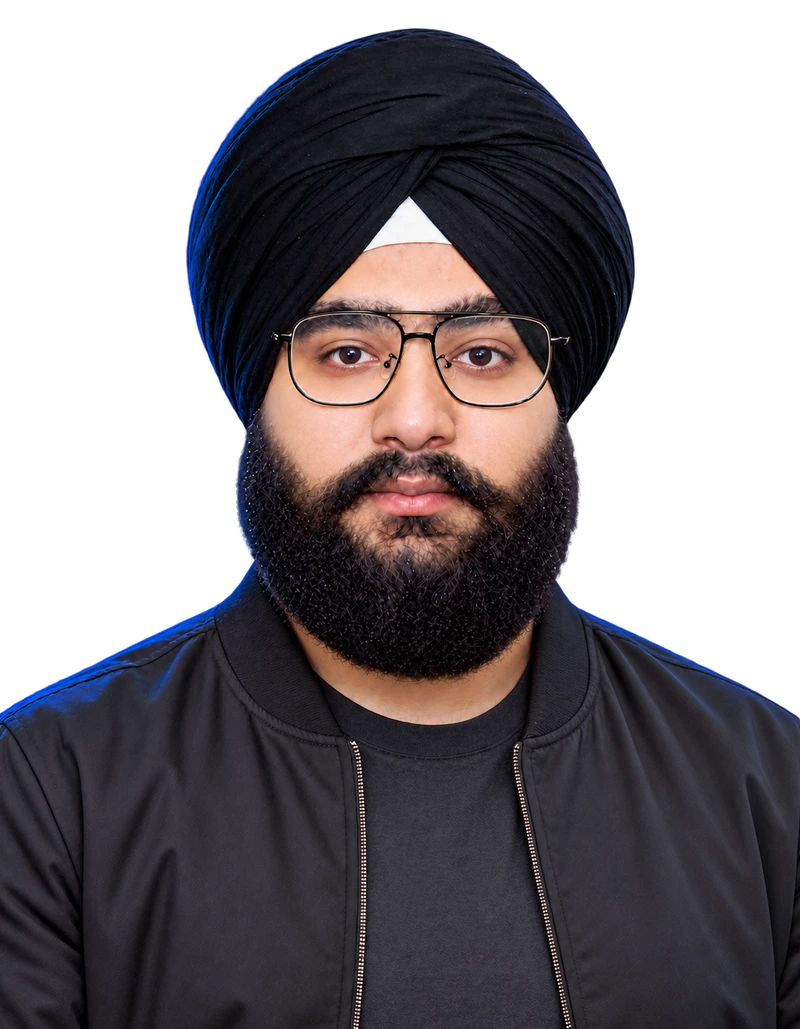
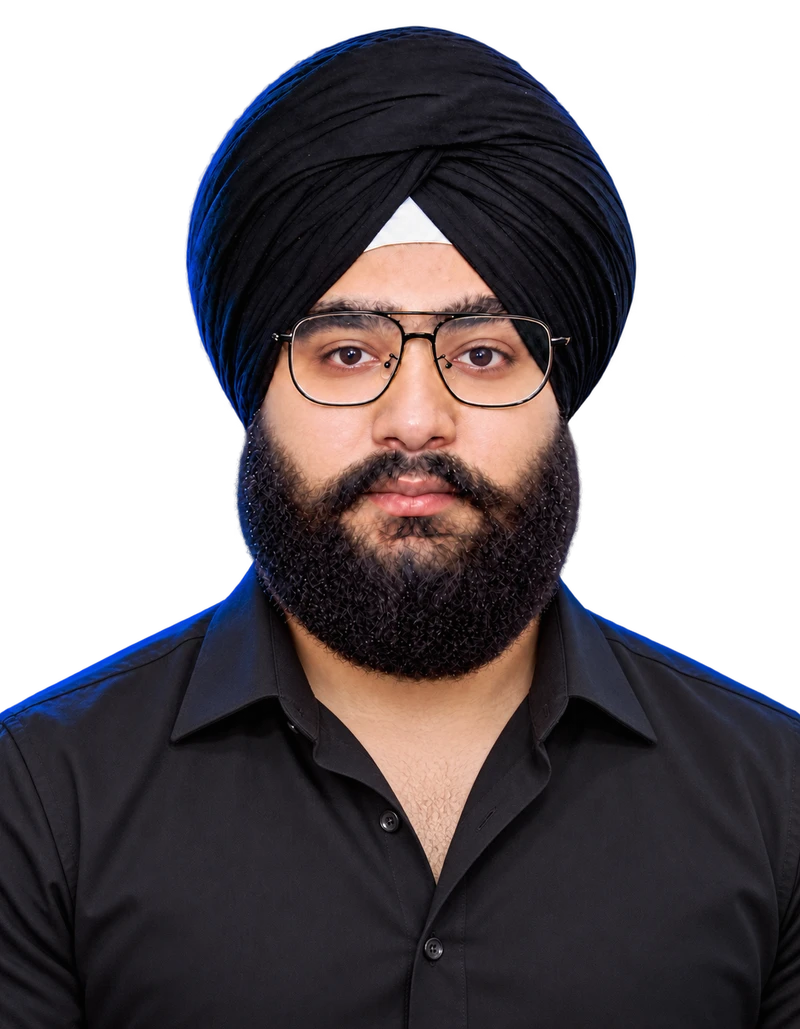
Use open-collar portrait with stronger shoulder framing

diff --git a/readme.md b/readme.md
@@ -43,7 +43,7 @@ No LeetCode or open-source contribution claims are displayed. Add them only when
 
 `src/components/ParticleHero.jsx` samples the bundled approved portrait and text into point targets at runtime. The particles resolve into the full portrait image for clarity. No face-generation API, video, WebGL dependency, or external image request runs in the website. Update `src/assets/portrait-approved.webp` to change the source photo. Morph timing, particle counts, sampling, pointer interaction, and lifecycle cleanup live in that component; the visual treatment is in `src/portfolio.css`.
 
-The active portrait is an AI-assisted edit of the user-approved black-jacket reference: targeted upper-cheek grooming, slightly larger glasses of the same style, and a straight-on torso with slightly broader shoulders. Facial identity, expression, outfit, turban, and lighting follow that approved reference. Only the optimised transparent WebP is bundled by the active page.
+The active portrait is an AI-assisted edit of the user-approved black-jacket reference: targeted upper-cheek grooming, slightly larger glasses of the same style, and a straight-on torso with broader shoulders. The active clothing is a fitted black open-collar shirt, chosen to show more of the neck. Facial identity, expression, turban, and lighting follow the approved reference. Only the optimised transparent WebP is bundled by the active page.
 
 ## Site interactions
 
